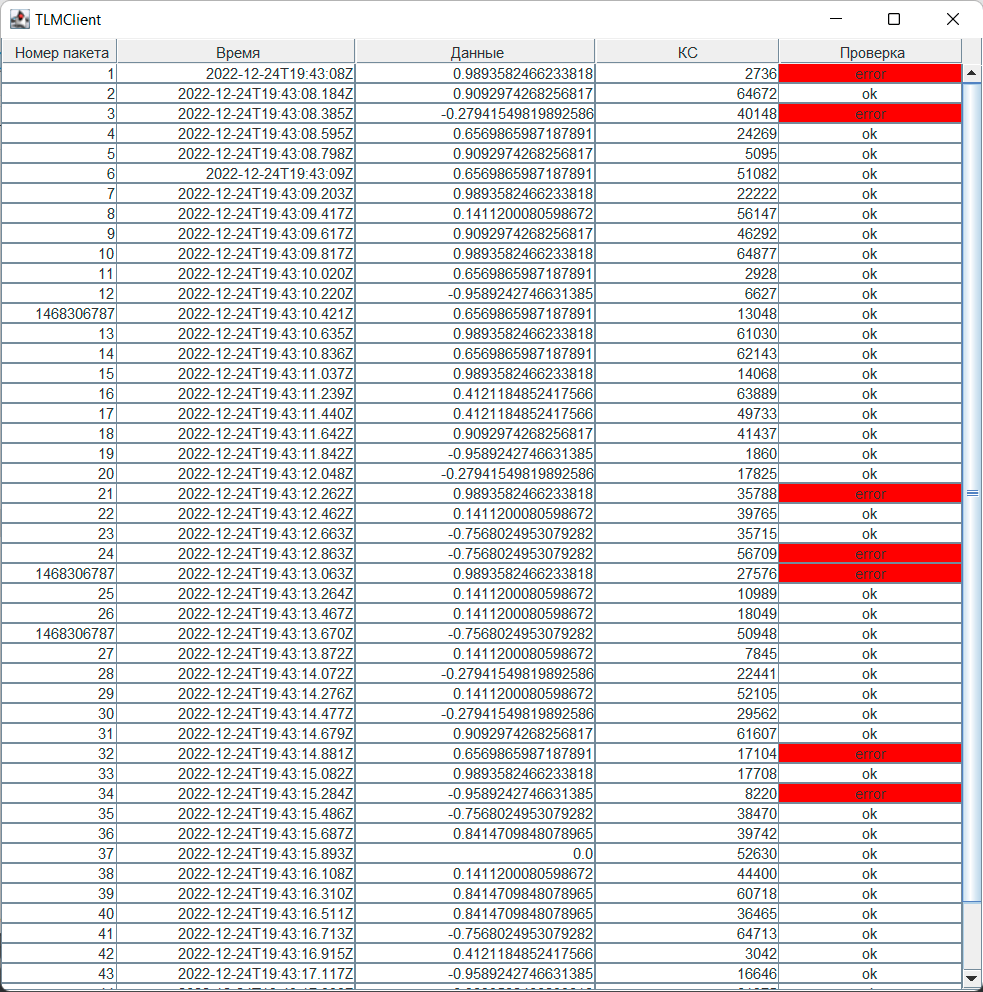
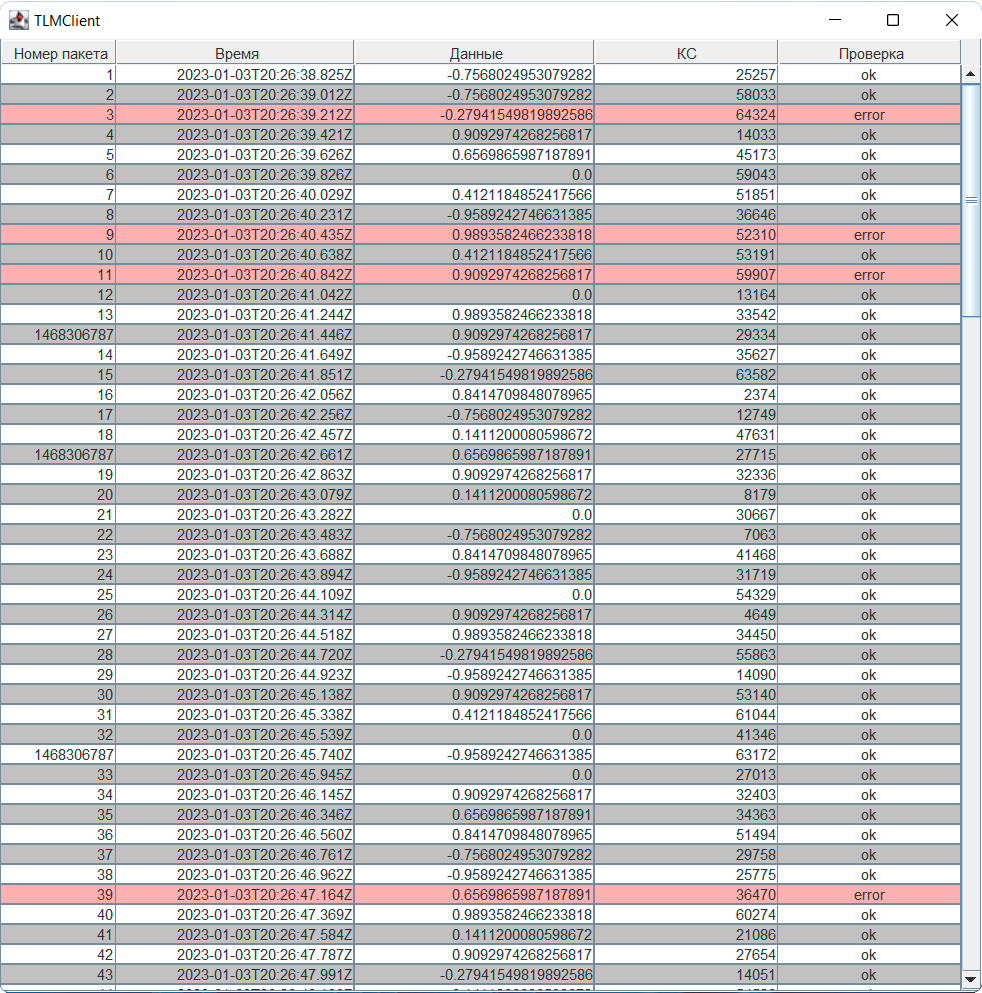
feat: цветное отображение таблицы

diff --git a/src/main/java/MainView.java b/src/main/java/MainView.java
@@ -1,6 +1,7 @@
 import javax.swing.*;
 import javax.swing.table.DefaultTableCellRenderer;
 import javax.swing.table.DefaultTableModel;
+import javax.swing.table.TableCellRenderer;
 import java.awt.*;
 import java.time.Instant;
 
@@ -17,7 +18,20 @@ public class MainView {
         frame.setLocationRelativeTo(null);
 
         model = new DefaultTableModel();
-        JTable table = new JTable(model);
+        JTable table = new JTable(model) {
+            public Component prepareRenderer(TableCellRenderer renderer, int row, int column) {
+                Component c = super.prepareRenderer(renderer, row, column);
+
+                if (!isRowSelected(row)) {
+                    c.setBackground(row % 2 == 0 ? getBackground() : Color.LIGHT_GRAY);
+                    int modelRow = convertRowIndexToModel(row);
+                    String type = (String) getModel().getValueAt(modelRow, 4);
+                    if ("error".equals(type)) c.setBackground(Color.PINK);
+                }
+
+                return c;
+            }
+        };
         table.setDefaultRenderer(Object.class, new TableInfoRenderer());
 
         model.addColumn("Номер пакета");
@@ -55,11 +69,11 @@ class TableInfoRenderer extends DefaultTableCellRenderer {
             c.setHorizontalAlignment(CENTER);
         }
 
-       if (value.equals("error")) {
+    /*    if (value.equals("error")) {
             c.setBackground(Color.red);
         } else {
             c.setBackground(Color.white);
-        }
+        } */
 
         return c;
     }
